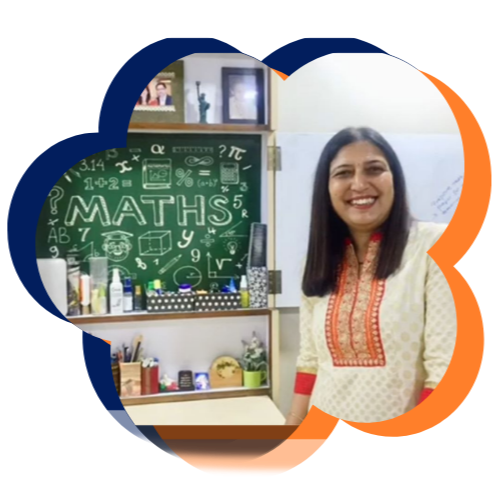
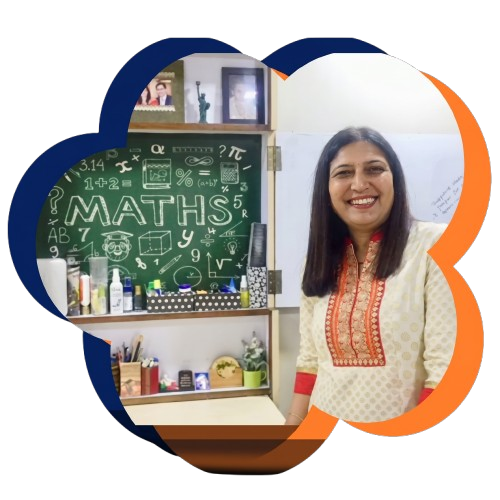
Added Changes]

diff --git a/components/TeamsSection.tsx b/components/TeamsSection.tsx
@@ -1,0 +1,47 @@
+import Image from "next/image";
+
+export default function TeamsSection() {
+  const team = [
+    {
+      name: "Shraddha Panchal",
+      role: "Founder & Lead Educator",
+      image: "/IMAGE2.png", // Using the existing image of Shraddha Mam
+      description: "With over 30 years of teaching experience, Shraddha brings unparalleled expertise and passion to conceptual mathematics education.",
+    },
+    // Adding placeholder for another team member if they have one, or just showcasing her as the core team
+    {
+      name: "Expert Support Team",
+      role: "Academic Mentors",
+      image: "/MWS_NOBG.png", // Fallback to logo or generic avatar
+      description: "Our dedicated support team ensures every student gets the personalized attention they need to excel in their olympiad journey.",
+    }
+  ];
+
+  return (
+    <section className="py-16 md:py-24 px-4 bg-background flex flex-col items-center">
+      <div className="bg-yellow text-primary px-6 sm:px-12 py-4 rounded-full text-2xl md:text-4xl font-heading font-bold mb-12 shadow-lg text-center">
+        Our Team
+      </div>
+      
+      <div className="max-w-5xl mx-auto grid grid-cols-1 md:grid-cols-2 gap-8 w-full">
+        {team.map((member, i) => (
+          <div key={i} className="bg-white rounded-[2.5rem] p-8 shadow-xl flex flex-col items-center text-center border-4 border-white hover:border-yellow/50 transition-colors">
+            <div className="w-40 h-40 relative rounded-full overflow-hidden mb-6 bg-primary/5 shadow-inner border-4 border-white">
+              <Image 
+                src={member.image} 
+                alt={member.name} 
+                fill 
+                className="object-cover" 
+              />
+            </div>
+            <h3 className="text-2xl md:text-3xl font-heading font-bold text-primary mb-2">{member.name}</h3>
+            <p className="text-orange font-bold text-lg mb-4 uppercase tracking-wider">{member.role}</p>
+            <p className="text-gray-600 font-medium leading-relaxed">
+              {member.description}
+            </p>
+          </div>
+        ))}
+      </div>
+    </section>
+  );
+}

diff --git a/app/page.tsx b/app/page.tsx
@@ -66,7 +66,6 @@ export default function Home() {
               <span className="text-orange relative inline-block">
                 Shraddha
                 <svg className="absolute w-full h-3 md:h-4 -bottom-1 md:-bottom-2 left-0 text-yellow-400/50" viewBox="0 0 100 10" preserveAspectRatio="none">
-                  <path d="M0 5 Q 50 10 100 5" stroke="currentColor" strokeWidth="4" fill="transparent" strokeLinecap="round" />
                 </svg>
               </span>
             </h1>
@@ -115,7 +114,7 @@ export default function Home() {
         </div>
         <div className="flex-1 flex justify-center items-center w-full">
           <div className="relative w-full max-w-[500px] md:max-w-[600px] aspect-square">
-            <Image src="/IMAGE2.png" alt="Shraddha Mam" fill className="object-contain drop-shadow-2xl hover:scale-105 transition-transform duration-500" />
+            <Image src="/IMAGE2.png" alt="Shraddha Mam" fill sizes="(max-width: 768px) 100vw, 50vw" className="object-contain drop-shadow-2xl hover:scale-105 transition-transform duration-500" />
           </div>
         </div>
       </section>
@@ -127,16 +126,16 @@ export default function Home() {
         </div>
         <div className="grid grid-cols-1 sm:grid-cols-2 xl:grid-cols-4 gap-6 w-full max-w-7xl px-4">
           {[
-            { title: "Mental Maths", desc: "Build lightning-fast calculation skills and mental agility.", img: "/exams-logos/MmcGmseLogo.jpeg", link: "/exams/mental-maths" },
-            { title: "SOF Maths Olympiad", desc: "Prepare for the Science Olympiad Foundation challenges.", img: "/exams-logos/SOF_IMO.jpeg", link: "/exams/sof" },
-            { title: "IPM", desc: "Intensive training for the Institute for Promotion of Mathematics.", img: "/exams-logos/IPM.avif", link: "/exams/ipm" },
-            { title: "SASMO", desc: "Singapore and Asian Schools Math Olympiad preparation.", img: "/exams-logos/SASMO.png", link: "/exams/sasmo" },
+            { title: "Mental Maths", desc: "Build lightning-fast calculation skills and mental agility.", img: "/exams-logos/MmcGmseLogo.jpeg", link: "/exams/mental-maths", imgBg: "bg-transparent" },
+            { title: "SOF Maths Olympiad", desc: "Prepare for the Science Olympiad Foundation challenges.", img: "/exams-logos/SOF_IMO.jpeg", link: "/exams/sof", imgBg: "bg-transparent" },
+            { title: "IPM", desc: "Intensive training for the Institute for Promotion of Mathematics.", img: "/exams-logos/IPM.png", link: "/exams/ipm", imgBg: "bg-[#0c4a6e] rounded-xl p-2" },
+            { title: "SASMO", desc: "Singapore and Asian Schools Math Olympiad preparation.", img: "/exams-logos/SASMO.png", link: "/exams/sasmo", imgBg: "bg-transparent" },
           ].map((exam, i) => (
             <div key={i} className="bg-white rounded-3xl p-6 w-full flex flex-col items-center text-center shadow-xl transform hover:-translate-y-2 transition-transform">
               <h3 className="text-2xl font-bold font-heading mb-4 text-primary">{exam.title}</h3>
               <p className="text-base text-gray-600 mb-6 flex-grow">{exam.desc}</p>
-              <div className="relative w-full h-32 mb-6">
-                <Image src={exam.img} alt={exam.title} fill className="object-contain" />
+              <div className={`relative w-full h-32 mb-6 ${exam.imgBg}`}>
+                <Image src={exam.img} alt={exam.title} fill sizes="(max-width: 640px) 100vw, (max-width: 1280px) 50vw, 25vw" className="object-contain" />
               </div>
               <Link href={exam.link} className="bg-primary text-white px-6 py-2 rounded-full font-bold hover:bg-accent transition-colors flex items-center gap-2">
                 Read More <ArrowRight className="w-4 h-4" />
@@ -180,9 +179,13 @@ export default function Home() {
         </p>
 
         <div className="flex flex-wrap justify-center gap-3 sm:gap-6 mb-10 md:mb-12">
-          {["Mental Maths", "SOF Maths Olympiad", "IPM Olympiad"].map((prog, i) => (
-            <div key={i} className="bg-white text-primary px-6 sm:px-10 py-3 sm:py-5 rounded-full text-base sm:text-xl md:text-2xl font-bold shadow-lg">
-              {prog}
+          {[
+            { text: "Mental Maths", bg: "bg-white", textClass: "text-primary" },
+            { text: "SOF Maths Olympiad", bg: "bg-white", textClass: "text-primary" },
+            { text: "IPM Olympiad", bg: "bg-[#0c4a6e]", textClass: "text-white" }
+          ].map((prog, i) => (
+            <div key={i} className={`${prog.bg} ${prog.textClass} px-6 sm:px-10 py-3 sm:py-5 rounded-full text-base sm:text-xl md:text-2xl font-bold shadow-lg`}>
+              {prog.text}
             </div>
           ))}
         </div>
@@ -209,8 +212,6 @@ export default function Home() {
 
       {/* Shorts Carousel */}
       <ShortsCarousel />
-
-
 
       {/* Testimonials */}
       <Testimonials />

diff --git a/app/gallery/page.tsx b/app/gallery/page.tsx
@@ -1,0 +1,16 @@
+import Navbar from "@/components/Navbar";
+import GallerySection from "@/components/GallerySection";
+
+export const metadata = {
+  title: "Gallery | Maths with Shraddha",
+  description: "Glimpses of our vibrant learning environment, student achievements, and the joy of mastering mathematics together.",
+};
+
+export default function GalleryPage() {
+  return (
+    <main className="flex min-h-screen flex-col bg-background pt-32">
+      <Navbar />
+      <GallerySection />
+    </main>
+  );
+}

diff --git a/app/team/page.tsx b/app/team/page.tsx
@@ -1,0 +1,16 @@
+import Navbar from "@/components/Navbar";
+import TeamsSection from "@/components/TeamsSection";
+
+export const metadata = {
+  title: "Our Team | Maths with Shraddha",
+  description: "Meet Shraddha and the expert academic support team behind our olympiad math coaching.",
+};
+
+export default function TeamPage() {
+  return (
+    <main className="flex min-h-screen flex-col bg-background pt-32">
+      <Navbar />
+      <TeamsSection />
+    </main>
+  );
+}

diff --git a/app/international/page.tsx b/app/international/page.tsx
@@ -3,7 +3,7 @@ import { Globe, Clock, MonitorPlay, Users } from "lucide-react";
 
 export const metadata = {
   title: "International Batches | Maths with Shraddha",
-  description: "Specialized online math coaching batches tailored for the timezones of students in the USA and Belgium.",
+  description: "Specialized online math coaching batches tailored for the timezones of students worldwide.",
 };
 
 export default function InternationalStudents() {
@@ -30,10 +30,10 @@ export default function InternationalStudents() {
               <Globe className="w-5 h-5 mr-2" /> Global Batches Now Open
             </div>
             <h1 className="text-4xl md:text-5xl lg:text-6xl font-heading font-bold tracking-tight mb-8 leading-tight max-w-4xl mx-auto">
-              Premium Online Math Coaching for Students in <span className="text-accent">USA & Belgium</span>
+              Premium Online Math Coaching for Students <span className="text-accent">Worldwide</span>
             </h1>
             <p className="text-lg md:text-xl text-white/90 mb-10 max-w-2xl mx-auto font-medium">
-              We conduct dedicated, live online batches tailored to your timezone. Experience high-quality, concept-driven mathematics learning from the comfort of your home.
+              We conduct dedicated, live online batches tailored to your timezone. Experience high-quality, concept-driven mathematics learning from the comfort of your home, anywhere in the world.
             </p>
             <a href="https://wa.me/919969174811?text=Hi%20Shraddha%20Ma'am%2C%20I'm%20reaching%20out%20from%20overseas%20and%20am%20interested%20in%20a%20free%20trial." target="_blank" rel="noopener noreferrer" className="inline-block bg-accent text-white px-10 py-4 rounded-full font-bold text-lg shadow-xl hover:-translate-y-1 hover:shadow-2xl transition-all">
               Enquire for International Batches
@@ -52,7 +52,7 @@ export default function InternationalStudents() {
               </div>
               <h3 className="text-2xl font-bold text-primary mb-4 font-heading">Timezone Aligned</h3>
               <p className="text-gray-700 font-medium leading-relaxed">
-                Our classes are scheduled specifically to match the convenient after-school hours for students living in the United States and Belgium. No more waking up at odd hours.
+                Our classes are scheduled specifically to match the convenient after-school hours for students across different global timezones. No more waking up at odd hours.
               </p>
             </div>
             

diff --git a/components/Navbar.tsx b/components/Navbar.tsx
@@ -12,9 +12,11 @@ export default function Navbar() {
   const navLinks = [
     { name: "Exams", href: "/exams" },
     { name: "About", href: "/about" },
-    { name: "International", href: "/international" },
     { name: "Courses", href: "/courses" },
+    { name: "Team", href: "/team" },
+    { name: "Gallery", href: "/gallery" },
     { name: "Testimonials", href: "/testimonials" },
+    { name: "International", href: "/international" },
   ];
 
   return (
@@ -38,7 +40,8 @@ export default function Navbar() {
                   alt="Maths with Shraddha"
                   width={260}
                   height={90}
-                  className="object-contain h-14 sm:h-16 md:h-20 w-auto drop-shadow-sm"
+                  className="object-contain h-14 sm:h-16 md:h-20"
+                  style={{ width: 'auto' }}
                   priority
                 />
               </Link>

diff --git a/app/layout.tsx b/app/layout.tsx
@@ -9,6 +9,7 @@ const fredoka = Fredoka({ subsets: ["latin"], variable: "--font-fredoka" });
 const fraunces = Fraunces({ subsets: ["latin"], variable: "--font-fraunces" });
 
 export const metadata: Metadata = {
+  metadataBase: new URL("https://mathswithshraddha.vercel.app"),
   title: "Maths with Shraddha | Premium Mathematics & Olympiad Coaching",
   description: "Shraddha Ma'am has been teaching mathematics since 1991 and holds B.Com., B.Ed. and CIDTT qualifications, helping students from Grades 1–10 master concepts and excel in Olympiads.",
   openGraph: {
@@ -41,7 +42,7 @@ export default function RootLayout({
   children: React.ReactNode;
 }>) {
   return (
-    <html lang="en" className="scroll-smooth">
+    <html lang="en" className="scroll-smooth" data-scroll-behavior="smooth">
       <body className={`${fredoka.variable} ${fraunces.variable} font-sans min-h-screen flex flex-col bg-background text-primary`}>
         <Preloader />
         {children}

diff --git a/app/exams/ipm/page.tsx b/app/exams/ipm/page.tsx
@@ -89,7 +89,7 @@ export default function IPMPage() {
           <div className="grid grid-cols-1 lg:grid-cols-2 gap-12 items-center">
             <div className="flex flex-col md:flex-row gap-8 items-center">
               <div className="relative w-32 h-32 md:w-40 md:h-40 flex-shrink-0 bg-white rounded-2xl shadow-sm p-4">
-                <Image src={exam.logo} alt={exam.name} fill className="object-contain p-4" />
+                <Image src={exam.logo} alt={exam.name} fill sizes="(max-width: 768px) 50vw, 160px" className="object-contain p-4" />
               </div>
               <div>
                 <h2 className="text-3xl md:text-4xl font-bold text-primary mb-6">What is {exam.name}?</h2>

diff --git a/app/exams/page.tsx b/app/exams/page.tsx
@@ -112,7 +112,7 @@ export default function ExamsPage() {
                 <div className="flex items-start justify-between mb-4">
                   <div className="flex items-center gap-4">
                     <div className="relative w-12 h-12 flex-shrink-0">
-                      <Image src={exam.logo} alt={exam.name} fill className="object-contain" />
+                      <Image src={exam.logo} alt={exam.name} fill sizes="48px" className="object-contain" />
                     </div>
                     <h3 className="text-2xl font-heading font-bold text-primary group-hover:text-accent transition-colors">
                       {exam.name}

diff --git a/data/exams.ts b/data/exams.ts
@@ -108,7 +108,7 @@ export const examsData: Exam[] = [
     ],
     heroTitle: "IPM Maths Preparation & Coaching",
     heroSubheadline: "Master arithmetic and mental math with speed training and precision exercises.",
-    logo: "/exams-logos/IPM.avif"
+    logo: "/exams-logos/IPM.png"
   },
   {
     slug: "mental-maths",